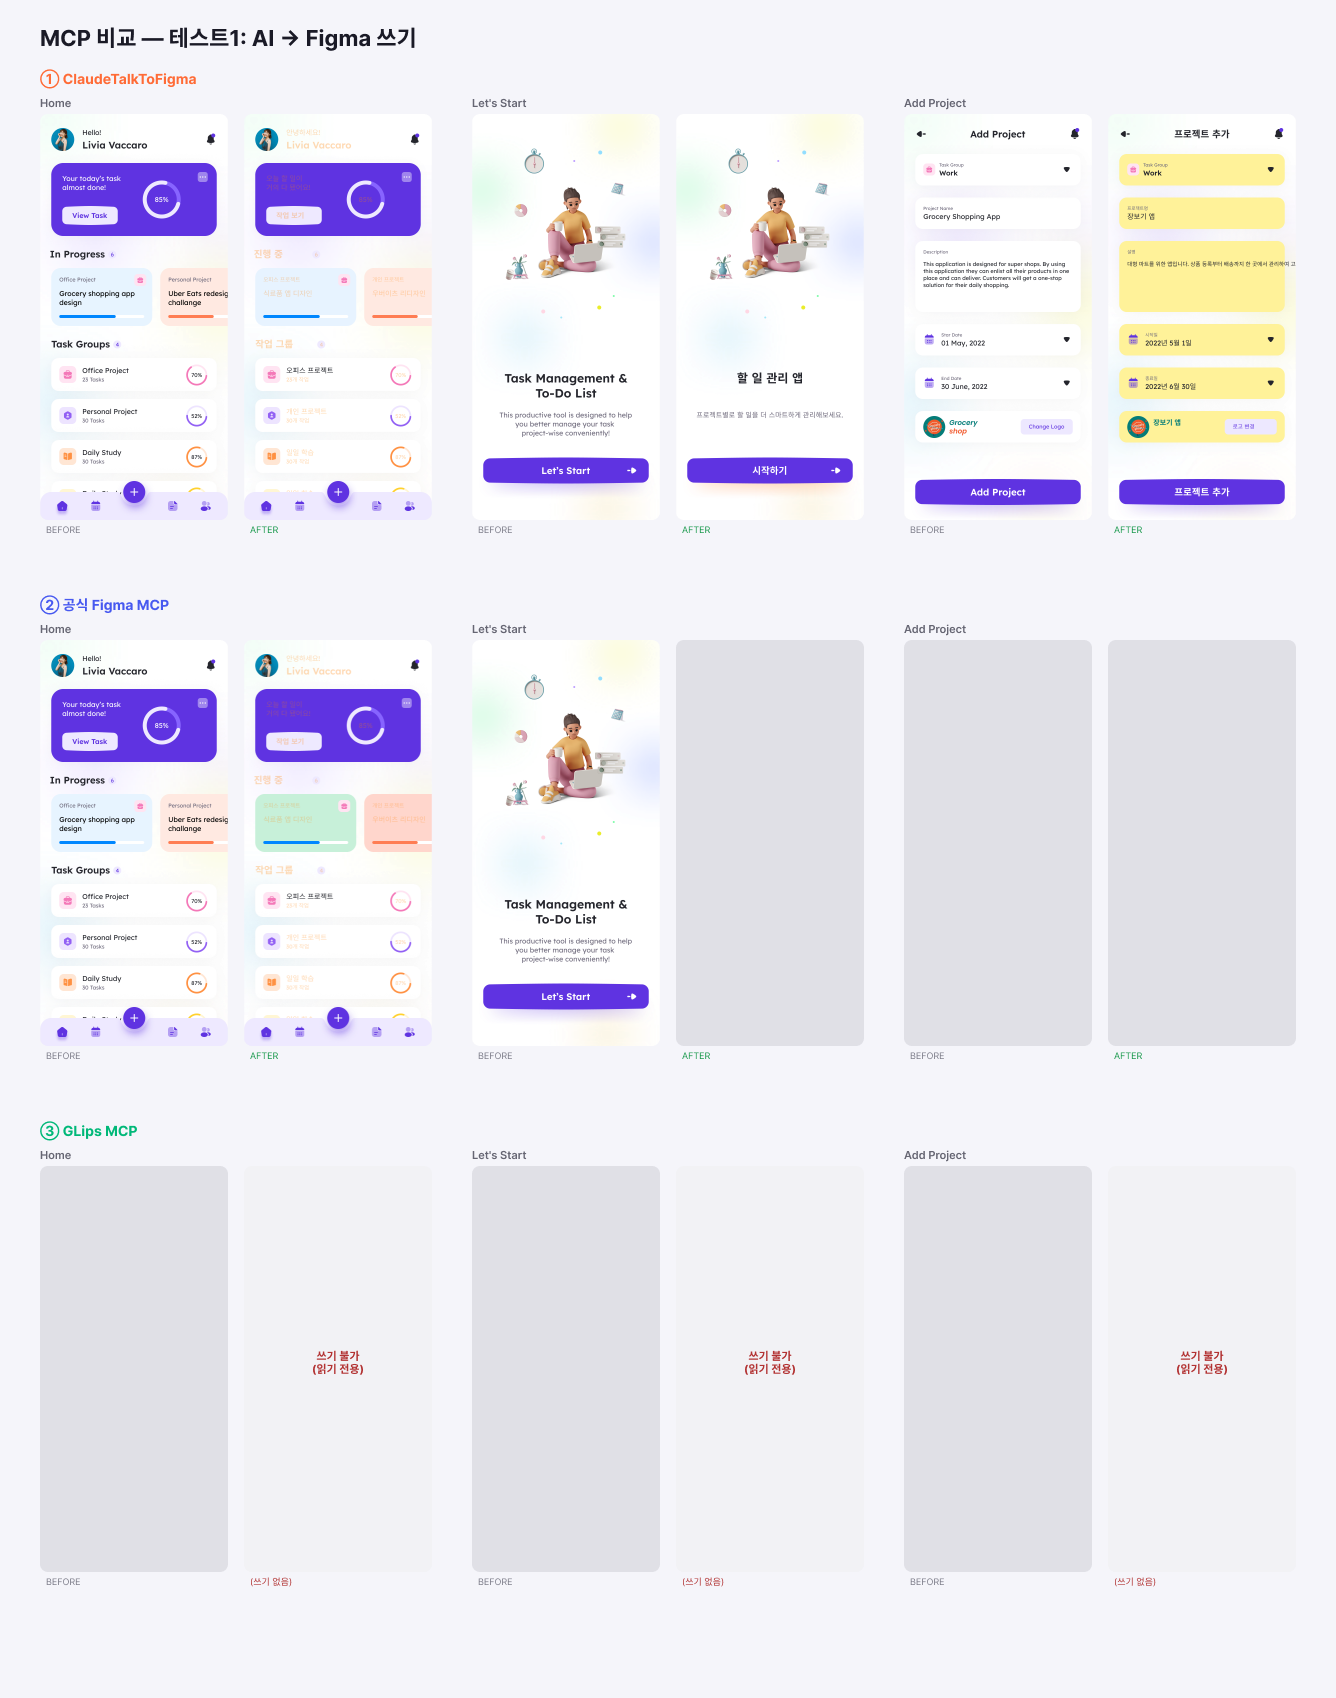
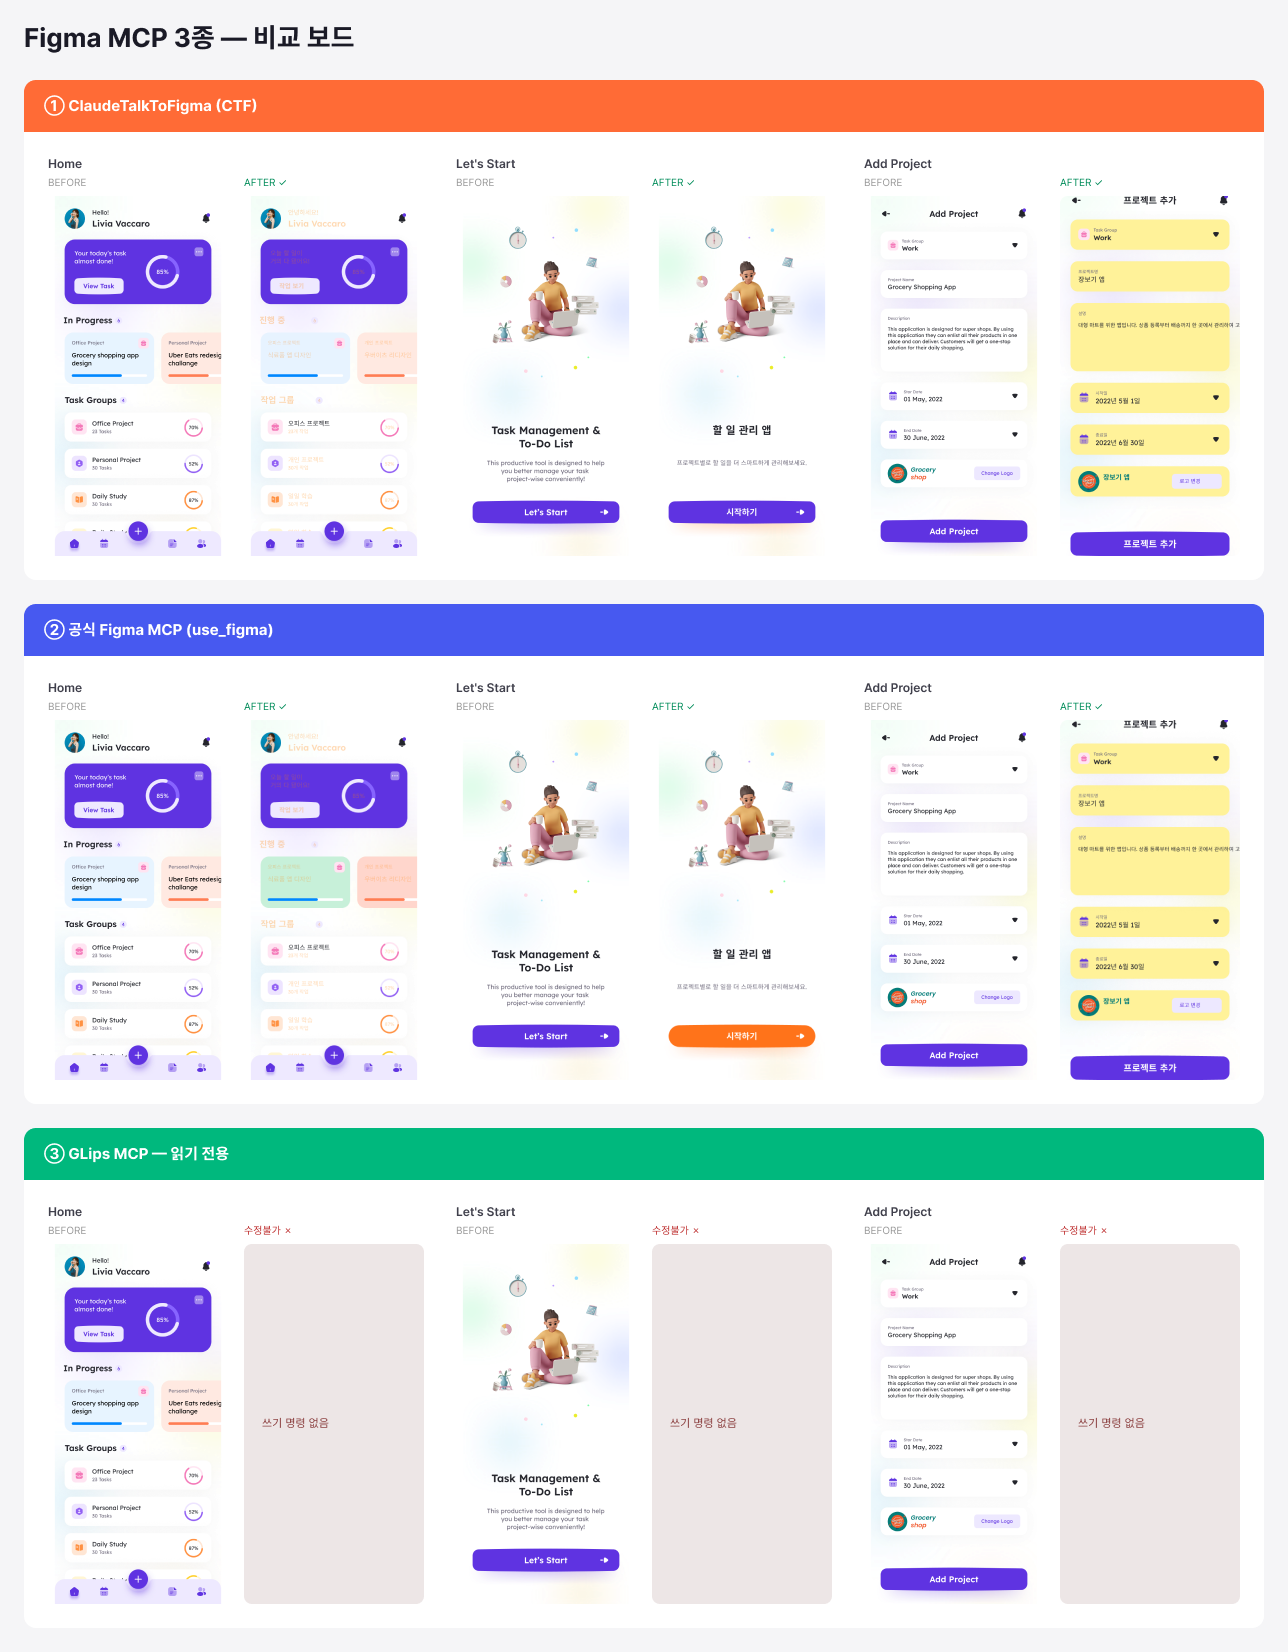
Add Figma board result screenshot to MCP comparison report
Figma 비교 보드 완성 스크린샷(3행 × 3화면 × Before/After, 15개 이미지 전체) 추가.
캡션 업데이트: Pro 플랜으로 전체 배치 완료 반영.

diff --git a/figma-mcp-v8.html b/figma-mcp-v8.html
@@ -773,7 +773,7 @@ get_node_info({ nodeId: "1119:340" })
           <img src="assets/figma-mcp/figma_board_screenshot.png" alt="Figma 비교 보드" style="width:100%;display:block;">
         </div>
         <div style="font-size:11px;color:#888;margin-top:8px;line-height:1.6;">
-          CTF 화면(1행): Before/After 6장 삽입 완료 ✅ &nbsp;|&nbsp; 공식 MCP·GLips 화면(2·3행): 유료 플랜으로 한 번에 완성 가능한 수준
+          3행(CTF / 공식 MCP / GLips) × 3화면(Home · Let's Start · Add Project) × Before/After — 15개 이미지 전체 배치 완료 ✅ (Pro 플랜, 2026-07-06)
         </div>
       </div>
 
